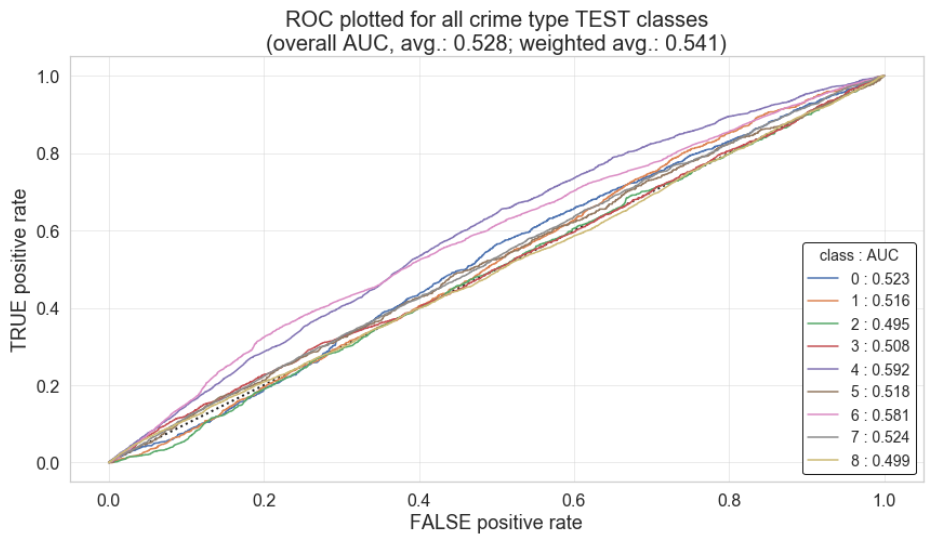
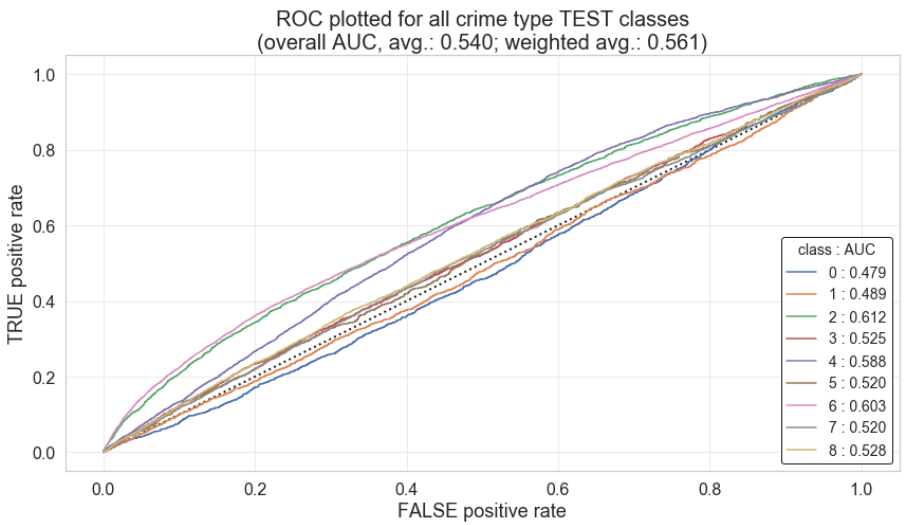
new figs and page updates

Changed region(s): [[0.0, 0.1219, 1.0, 1.0], [0.2757, 0.0, 0.7965, 0.1219]]

diff --git a/pages/model-trees.md b/pages/model-trees.md
@@ -13,16 +13,49 @@ title: "Modeling using Decision Trees"
 
 
 **Top Predictors** 
+![tree_plot]({{ site.url }}/figures/model-trees/tree_plot.PNG)
+![tree_top_predictors]({{ site.url }}/figures/model-trees/tree_top_predictors.PNG)
+
 
 # Overfitting
 
+Accuracy of overfit tree model (Train): 0.887855272999252
+Accuracy of overfit tree model (Test):  0.29216529543754677
+
 # Bagging
+Using 55 trees:
+Accuracy of bagging model (Train):  0.0487175891298928
+Accuracy of bagging Model (Test):  0.04724507604088756
+
 # Bootstraps Affects & Bagging Ensemble's Performance
+![bootstrap_accuracy]({{ site.url }}/figures/model-trees/bootstrap_accuracy.PNG)
+
+
 
 # Random Forest
+Accuracy of random forest model (Train):  0.4243954126153079
+Accuracy of random forest model (Test):  0.350068561455996
+
+Random forest randomly selects a subset of predictors to split on. Therefore the first split can vary based on what subset of predictors is being used. Bagging does not subset the predictors so is always using the same best predictor.
+
+Random forest can possibly capture more variance in the data because it is aggregating trees that are more varied. Theoretically random forest should therefore be able to get higher accuracies than bagging.
 ***Accuracy Comparison:***
+![accuracy_comparison]({{ site.url }}/figures/model-trees/accuracy_comparison.PNG)
+
 # Boosting
-# Best Model Results
+ADA Boost Classifier
+![ada_boost_3]({{ site.url }}/figures/model-trees/ada_boost_3.PNG)
+![ada_boost_5]({{ site.url }}/figures/model-trees/ada_boost_5.PNG)
+![ada_boost_6]({{ site.url }}/figures/model-trees/ada_boost_6.PNG)
+![ada_boost_7]({{ site.url }}/figures/model-trees/ada_boost_7.PNG)
+![ada_boost_8]({{ site.url }}/figures/model-trees/ada_boost_8.PNG)
+
+
+
+# Best Model: Random Forest Results
 
 ***Confusion matrices***
+![confusion_matrix_rf]({{ site.url }}/figures/model-trees/confusion_matrix_rf.PNG)
+![confusion_matrix_rf_2]({{ site.url }}/figures/model-trees/confusion_matrix_rf_2.PNG)
 ***AUC***
+![roc_auc]({{ site.url }}/figures/model-trees/roc_auc.PNG)
